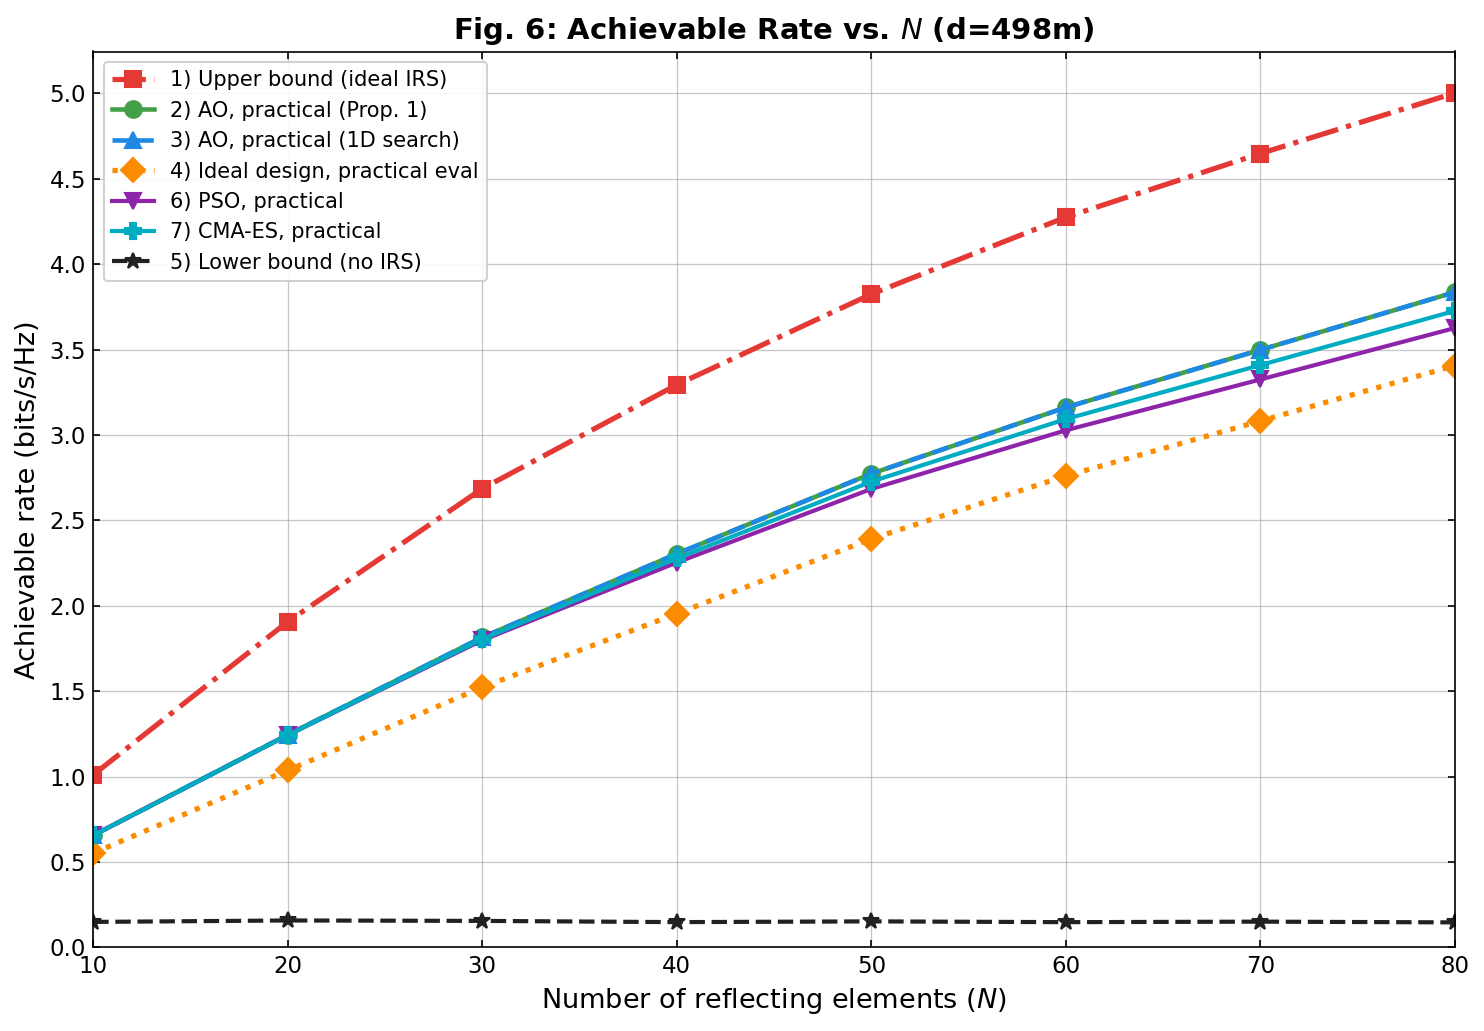
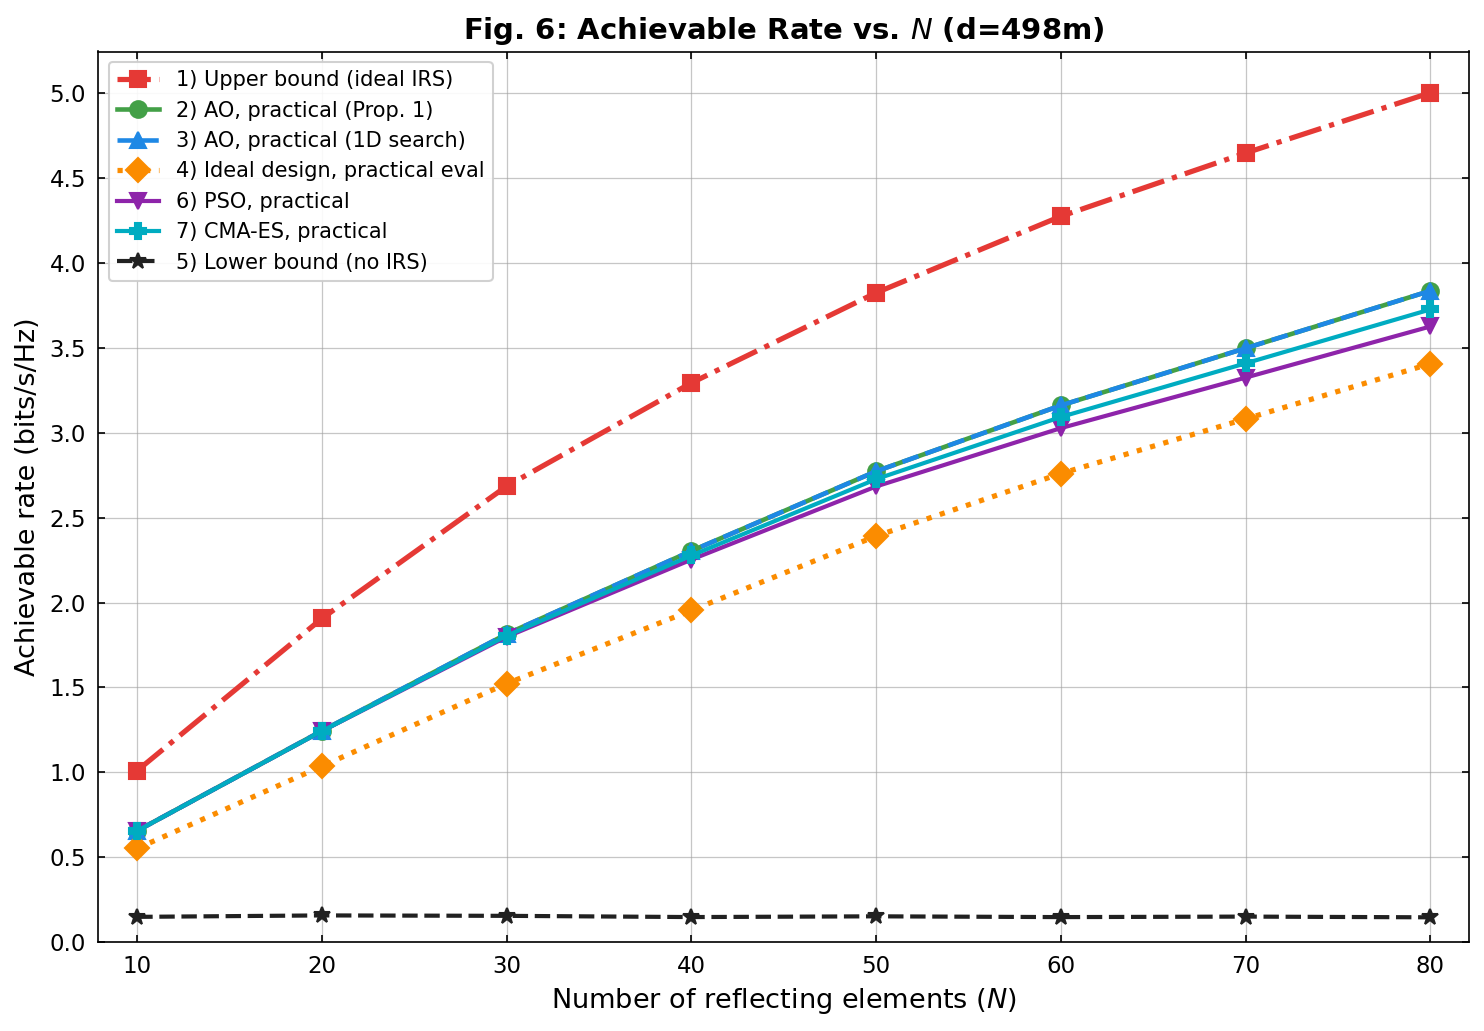
Extend X-axis margin slightly and adjust padding

diff --git a/plot_results.py b/plot_results.py
@@ -65,7 +65,7 @@ def _setup_axes(ax, xlabel, ylabel, title=None):
     ax.yaxis.set_major_locator(ticker.MultipleLocator(0.5))
     
     # Align the first and last grid lines exactly with the bounding box spines
-    ax.margins(x=0)
+    ax.margins(x=0.03)
     ax.set_ylim(bottom=0)
     
     # Neater grids: solid light major grid only, explicitly turn off minor grid
@@ -73,7 +73,7 @@ def _setup_axes(ax, xlabel, ylabel, title=None):
     ax.grid(True, which='major', linestyle='-', linewidth=0.6, alpha=0.6, color='#A0A0A0')
     
     # MATLAB style: ticks point inward and appear on all 4 sides, full bounding box
-    ax.tick_params(direction='in', top=True, right=True, labelsize=11)
+    ax.tick_params(direction='in', top=True, right=True, labelsize=11, pad=6)
 
 
 def plot_fig5(results, save_path=None):

diff --git a/README.md b/README.md
@@ -48,7 +48,7 @@ Here are the simulation results demonstrating the performance of the various alg
 
 Demonstrates how the system performs as the distance between the Access Point and the user increases.
 <p align="center">
-  <img src="assets/fig5_rate_vs_distance.png?v=4" alt="Rate vs Distance" width="600"/>
+  <img src="assets/fig5_rate_vs_distance.png?v=5" alt="Rate vs Distance" width="600"/>
 </p>
 
 #### Detailed Result Table (Fig. 5)
@@ -67,7 +67,7 @@ Demonstrates how the system performs as the distance between the Access Point an
 
 Illustrates the scaling behavior of the achievable rate as more IRS elements are added.
 <p align="center">
-  <img src="assets/fig6_rate_vs_N.png?v=4" alt="Rate vs N" width="600"/>
+  <img src="assets/fig6_rate_vs_N.png?v=5" alt="Rate vs N" width="600"/>
 </p>
 
 #### Detailed Result Table (Fig. 6)
@@ -86,7 +86,7 @@ Illustrates the scaling behavior of the achievable rate as more IRS elements are
 
 Evaluates the performance degradation when the IRS is constrained to low-resolution discrete phase shifts (e.g., 1-bit, 2-bit, or 3-bit).
 <p align="center">
-  <img src="assets/fig7_discrete_phases.png?v=4" alt="Discrete Phase Shifts" width="600"/>
+  <img src="assets/fig7_discrete_phases.png?v=5" alt="Discrete Phase Shifts" width="600"/>
 </p>
 
 #### Detailed Result Table (Fig. 7)